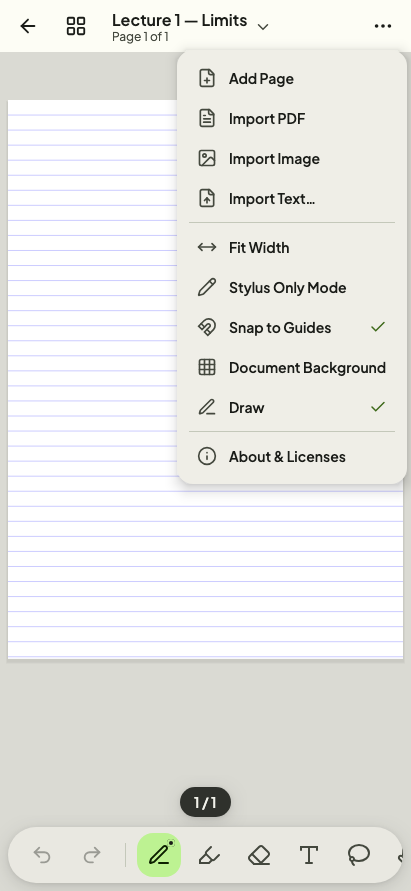
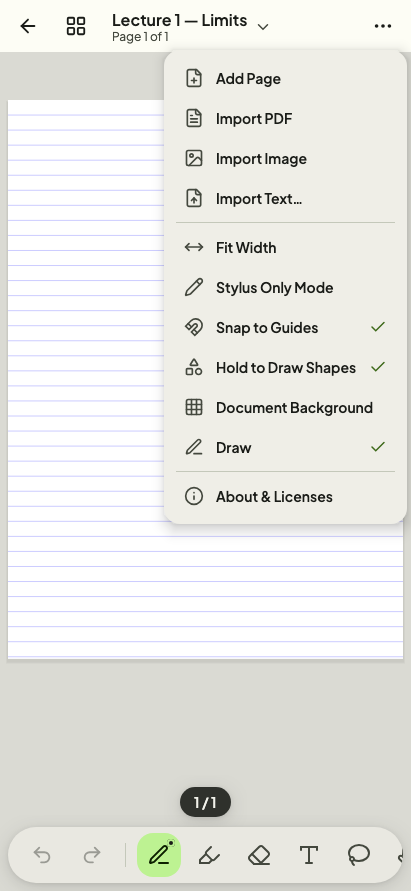
feat(ui): the switch of the shapes in the settings of the pen and the menus
"Hold to Draw Shapes" in the settings of the pen and of the highlighter
and as a command of the View menu, in the seven languages. The
screenshots of the tool popovers and of the more menu are recorded
again for it, and the ABI of drawview-ui for its two new strings.

Changed region(s): [[0.4088, 0.2727, 0.9927, 0.6061], [0.4088, 0.0606, 0.7883, 0.2424], [0.3796, 0.2121, 0.4088, 0.3333]]

diff --git a/drawview-ui/src/commonMain/kotlin/io/github/valerioisufi/drawview/ui/theme/DrawViewIcons.kt b/drawview-ui/src/commonMain/kotlin/io/github/valerioisufi/drawview/ui/theme/DrawViewIcons.kt
@@ -134,6 +134,7 @@ public object DrawViewIcons {
     public val Search: ImageVector by lazy { icon("Search", "M11 19C15.4183 19 19 15.4183 19 11C19 6.58172 15.4183 3 11 3C6.58172 3 3 6.58172 3 11C3 15.4183 6.58172 19 11 19Z", "M21 21.0002L16.7 16.7002") }
     internal val Send: ImageVector by lazy { icon("Send", "M14.536 21.686a.5.5 0 0 0 .937-.024l6.5-19a.496.496 0 0 0-.635-.635l-19 6.5a.5.5 0 0 0-.024.937l7.93 3.18a2 2 0 0 1 1.112 1.11z", "m21.854 2.147-10.94 10.939") }
     public val Settings: ImageVector by lazy { icon("Settings", "M12.22 2H11.78C11.2496 2 10.7409 2.21071 10.3658 2.58579C9.99072 2.96086 9.78 3.46957 9.78 4V4.18C9.77964 4.53073 9.68706 4.87519 9.51154 5.17884C9.33602 5.48248 9.08374 5.73464 8.78 5.91L8.35 6.16C8.04596 6.33554 7.70108 6.42795 7.35 6.42795C6.99893 6.42795 6.65404 6.33554 6.35 6.16L6.2 6.08C5.74107 5.81526 5.19584 5.74344 4.684 5.88031C4.17217 6.01717 3.73555 6.35154 3.47 6.81L3.25 7.19C2.98526 7.64893 2.91345 8.19416 3.05031 8.706C3.18717 9.21783 3.52154 9.65445 3.98 9.92L4.13 10.02C4.43228 10.1945 4.68362 10.4451 4.85905 10.7468C5.03448 11.0486 5.1279 11.391 5.13 11.74V12.25C5.1314 12.6024 5.03965 12.949 4.86405 13.2545C4.68844 13.5601 4.43521 13.8138 4.13 13.99L3.98 14.08C3.52154 14.3456 3.18717 14.7822 3.05031 15.294C2.91345 15.8058 2.98526 16.3511 3.25 16.81L3.47 17.19C3.73555 17.6485 4.17217 17.9828 4.684 18.1197C5.19584 18.2566 5.74107 18.1847 6.2 17.92L6.35 17.84C6.65404 17.6645 6.99893 17.5721 7.35 17.5721C7.70108 17.5721 8.04596 17.6645 8.35 17.84L8.78 18.09C9.08374 18.2654 9.33602 18.5175 9.51154 18.8212C9.68706 19.1248 9.77964 19.4693 9.78 19.82V20C9.78 20.5304 9.99072 21.0391 10.3658 21.4142C10.7409 21.7893 11.2496 22 11.78 22H12.22C12.7504 22 13.2591 21.7893 13.6342 21.4142C14.0093 21.0391 14.22 20.5304 14.22 20V19.82C14.2204 19.4693 14.3129 19.1248 14.4885 18.8212C14.664 18.5175 14.9163 18.2654 15.22 18.09L15.65 17.84C15.954 17.6645 16.2989 17.5721 16.65 17.5721C17.0011 17.5721 17.346 17.6645 17.65 17.84L17.8 17.92C18.2589 18.1847 18.8042 18.2566 19.316 18.1197C19.8278 17.9828 20.2645 17.6485 20.53 17.19L20.75 16.8C21.0147 16.3411 21.0866 15.7958 20.9497 15.284C20.8128 14.7722 20.4785 14.3356 20.02 14.07L19.87 13.99C19.5648 13.8138 19.3116 13.5601 19.136 13.2545C18.9604 12.949 18.8686 12.6024 18.87 12.25V11.75C18.8686 11.3976 18.9604 11.051 19.136 10.7455C19.3116 10.4399 19.5648 10.1862 19.87 10.01L20.02 9.92C20.4785 9.65445 20.8128 9.21783 20.9497 8.706C21.0866 8.19416 21.0147 7.64893 20.75 7.19L20.53 6.81C20.2645 6.35154 19.8278 6.01717 19.316 5.88031C18.8042 5.74344 18.2589 5.81526 17.8 6.08L17.65 6.16C17.346 6.33554 17.0011 6.42795 16.65 6.42795C16.2989 6.42795 15.954 6.33554 15.65 6.16L15.22 5.91C14.9163 5.73464 14.664 5.48248 14.4885 5.17884C14.3129 4.87519 14.2204 4.53073 14.22 4.18V4C14.22 3.46957 14.0093 2.96086 13.6342 2.58579C13.2591 2.21071 12.7504 2 12.22 2Z", "M12 15C13.6569 15 15 13.6569 15 12C15 10.3431 13.6569 9 12 9C10.3431 9 9 10.3431 9 12C9 13.6569 10.3431 15 12 15Z") }
+    internal val Shapes: ImageVector by lazy { icon("Shapes", "M8.3 10a.7.7 0 0 1-.626-1.079L11.4 3a.7.7 0 0 1 1.198-.043L16.3 8.9a.7.7 0 0 1-.572 1.1Z", "M4 14h5a1 1 0 0 1 1 1v5a1 1 0 0 1-1 1h-5a1 1 0 0 1-1-1v-5a1 1 0 0 1 1-1Z", "M14 17.5a3.5 3.5 0 1 0 7 0a3.5 3.5 0 1 0 -7 0") }
     public val Share: ImageVector by lazy { icon("Share", "M4 12V20C4 20.5304 4.21071 21.0391 4.58579 21.4142C4.96086 21.7893 5.46957 22 6 22H18C18.5304 22 19.0391 21.7893 19.4142 21.4142C19.7893 21.0391 20 20.5304 20 20V12", "M16 6L12 2L8 6", "M12 2V15") }
     public val Shield: ImageVector by lazy { icon("Shield", "M20 13.0004C20 18.0004 16.5 20.5005 12.34 21.9505C12.1222 22.0243 11.8855 22.0207 11.67 21.9405C7.5 20.5005 4 18.0004 4 13.0004V6.00045C4 5.73523 4.10536 5.48088 4.29289 5.29334C4.48043 5.10581 4.73478 5.00045 5 5.00045C7 5.00045 9.5 3.80045 11.24 2.28045C11.4519 2.09945 11.7214 2 12 2C12.2786 2 12.5481 2.09945 12.76 2.28045C14.51 3.81045 17 5.00045 19 5.00045C19.2652 5.00045 19.5196 5.10581 19.7071 5.29334C19.8946 5.48088 20 5.73523 20 6.00045V13.0004Z", "M9 12L11 14L15 10") }
     internal val Sigma: ImageVector by lazy { icon("Sigma", "M18 7V5C18 4.73478 17.8946 4.48043 17.7071 4.29289C17.5196 4.10536 17.2652 4 17 4H6.5C6.40714 4 6.31612 4.02586 6.23713 4.07467C6.15815 4.12349 6.09431 4.19334 6.05279 4.27639C6.01126 4.35945 5.99368 4.45242 6.00202 4.5449C6.01036 4.63738 6.04429 4.72572 6.1 4.8L10.6 10.8C10.8596 11.1462 11 11.5673 11 12C11 12.4327 10.8596 12.8538 10.6 13.2L6.1 19.2C6.04429 19.2743 6.01036 19.3626 6.00202 19.4551C5.99368 19.5476 6.01126 19.6406 6.05279 19.7236C6.09431 19.8067 6.15815 19.8765 6.23713 19.9253C6.31612 19.9741 6.40714 20 6.5 20H17C17.2652 20 17.5196 19.8946 17.7071 19.7071C17.8946 19.5196 18 19.2652 18 19V17") }

diff --git a/drawview-ui/src/commonMain/kotlin/io/github/valerioisufi/drawview/ui/components/ToolSettings.kt b/drawview-ui/src/commonMain/kotlin/io/github/valerioisufi/drawview/ui/components/ToolSettings.kt
@@ -14,14 +14,17 @@ import androidx.compose.foundation.layout.fillMaxWidth
 import androidx.compose.foundation.layout.height
 import androidx.compose.foundation.layout.padding
 import androidx.compose.foundation.layout.size
+import androidx.compose.foundation.layout.Spacer
 import androidx.compose.foundation.layout.width
 import androidx.compose.foundation.shape.CircleShape
 import androidx.compose.foundation.shape.RoundedCornerShape
+import androidx.compose.foundation.selection.toggleable
 import androidx.compose.material3.ExperimentalMaterial3Api
 import androidx.compose.material3.Icon
 import androidx.compose.material3.MaterialTheme
 import androidx.compose.material3.Slider
 import androidx.compose.material3.Surface
+import androidx.compose.material3.Switch
 import androidx.compose.material3.Text
 import androidx.compose.runtime.Composable
 import androidx.compose.ui.Alignment
@@ -275,6 +278,29 @@ internal fun OptionCard(icon: ImageVector, title: String, description: String, s
             Text(description, style = MaterialTheme.typography.bodySmall, color = if (selected) content else colors.onSurfaceVariant)
         }
         if (selected) Icon(DrawViewIcons.Check, contentDescription = null, tint = content, modifier = Modifier.size(18.dp))
+    }
+}
+
+/**
+ * A setting of a tool that is on or off: its [title] and what it does ([description]), a switch;
+ * the whole row toggles it.
+ */
+@Composable
+internal fun SwitchSetting(title: String, description: String, checked: Boolean, onCheckedChange: (Boolean) -> Unit, modifier: Modifier = Modifier) {
+    Row(
+        modifier = modifier
+            .fillMaxWidth()
+            .clip(RoundedCornerShape(12.dp))
+            .toggleable(value = checked, role = Role.Switch, onValueChange = onCheckedChange)
+            .padding(vertical = 4.dp),
+        verticalAlignment = Alignment.CenterVertically
+    ) {
+        Column(modifier = Modifier.weight(1f)) {
+            Text(title, style = MaterialTheme.typography.labelLarge, color = MaterialTheme.colorScheme.onSurface)
+            Text(description, style = MaterialTheme.typography.bodySmall, color = MaterialTheme.colorScheme.onSurfaceVariant)
+        }
+        Spacer(Modifier.width(12.dp))
+        Switch(checked = checked, onCheckedChange = null)
     }
 }
 

diff --git a/drawview-ui/src/commonMain/kotlin/io/github/valerioisufi/drawview/ui/screen/EditorCommands.kt b/drawview-ui/src/commonMain/kotlin/io/github/valerioisufi/drawview/ui/screen/EditorCommands.kt
@@ -44,6 +44,7 @@ import io.github.valerioisufi.drawview.ui.generated.resources.command_previous_p
 import io.github.valerioisufi.drawview.ui.generated.resources.command_previous_tool
 import io.github.valerioisufi.drawview.ui.generated.resources.command_send_backward
 import io.github.valerioisufi.drawview.ui.generated.resources.command_send_to_back
+import io.github.valerioisufi.drawview.ui.generated.resources.command_shapes
 import io.github.valerioisufi.drawview.ui.generated.resources.command_snapping
 import io.github.valerioisufi.drawview.ui.generated.resources.command_zoom_in
 import io.github.valerioisufi.drawview.ui.generated.resources.command_zoom_out
@@ -314,6 +315,13 @@ internal class EditorCommands internal constructor(
         isChecked = { controller.snapManager.isEnabled }
     ) { controller.snapManager.updateEnabled(!controller.snapManager.isEnabled) }
 
+    /** Whether a stroke held still at its end becomes its shape (a line, a circle, a box...). */
+    val shapes = Command(
+        "shapes", label(Res.string.command_shapes), CommandGroup.VIEW, section = 2,
+        icon = { rememberVectorPainter(DrawViewIcons.Shapes) },
+        isChecked = { controller.shapeSnapper.isEnabled }
+    ) { controller.shapeSnapper.updateEnabled(!controller.shapeSnapper.isEnabled) }
+
     // ----- Insert -----
 
     val addPage = Command(
@@ -547,7 +555,7 @@ internal class EditorCommands internal constructor(
     val all: List<Command> = listOf(
         close,
         undo, redo, cut, copy, paste, delete,
-        zoomIn, zoomOut, fitWidth, previousPage, nextPage, pageGrid, stylusOnly, snapping,
+        zoomIn, zoomOut, fitWidth, previousPage, nextPage, pageGrid, stylusOnly, snapping, shapes,
         addPage, importPdf, importImage, importText,
         documentBackground,
         bringToFront, bringForward, sendBackward, sendToBack,

diff --git a/drawview-ui/src/commonMain/kotlin/io/github/valerioisufi/drawview/ui/screen/EditorToolbar.kt b/drawview-ui/src/commonMain/kotlin/io/github/valerioisufi/drawview/ui/screen/EditorToolbar.kt
@@ -85,6 +85,7 @@ import io.github.valerioisufi.drawview.ui.components.OptionCard
 import io.github.valerioisufi.drawview.ui.components.PopoverTitle
 import io.github.valerioisufi.drawview.ui.components.PresetCard
 import io.github.valerioisufi.drawview.ui.components.SettingHint
+import io.github.valerioisufi.drawview.ui.components.SwitchSetting
 import io.github.valerioisufi.drawview.ui.components.SettingLabel
 import io.github.valerioisufi.drawview.ui.components.SizeSetting
 import io.github.valerioisufi.drawview.ui.components.StrokePreview
@@ -450,7 +451,7 @@ private fun MoreMenu(commands: EditorCommands, arrangement: ToolbarArrangement, 
             sections = listOf(
                 listOfNotNull(commands.pageGrid.takeIf { !showPageGrid }, commands.addPage) +
                     (if (floating) listOf(commands.importPdf, commands.importImage, commands.importText) else emptyList()),
-                listOf(commands.fitWidth, commands.stylusOnly, commands.snapping, commands.documentBackground, commands.drawingMode),
+                listOf(commands.fitWidth, commands.stylusOnly, commands.snapping, commands.shapes, commands.documentBackground, commands.drawingMode),
                 listOf(commands.about)
             ),
             expanded = expanded,
@@ -642,6 +643,12 @@ internal fun ColumnScope.InkSettings(controller: DrawViewController, tool: Tool,
                 onCustom = { wheelOpen = true }
             )
         }
+        SwitchSetting(
+            title = stringResource(Res.string.command_shapes),
+            description = stringResource(Res.string.tool_settings_shapes_hint),
+            checked = controller.shapeSnapper.isEnabled,
+            onCheckedChange = controller.shapeSnapper::updateEnabled
+        )
     }
     if (wheelOpen) {
         TextColorPickerDialog(

diff --git a/docs/shapes.md b/docs/shapes.md
@@ -142,7 +142,7 @@ noise, and strokes recorded by hand in the tests' resources).
 |---|---|---|
 | 1 | `Shape` and `ShapeRecognizer` in `drawview-model` (`model/shape/`): line, arrow, broken line, ellipse, circle, triangle, rectangle, square, polygon, the regularization, the points of each shape; tests on synthetic strokes with noise and on strokes that are no shape (handwriting, spirals, scribbles) that must give nothing; a test that the Ink mesh of a rectangle and a triangle keeps its corners; ABI of `drawview-model` recorded on purpose | Done |
 | 2 | The hold at the end of a stroke in `CanvasGestureHandler` and `ShapeSnapper` in `drawview-canvas`: the live mesh replaced by the shape, committed on the up, undone in one step; `DrawPreferences.isShapeRecognitionEnabled` (default on) with a test reading the preferences written before it; tests of the gesture (held: a shape; lifted: the stroke; held on a scribble: the stroke) | Done |
-| 3 | The switch in the settings of the pen and of the highlighter (`drawview-ui`), its screenshots (`verifyRoborazziJvm`); the desktop application on a scratch directory, the shapes drawn with the mouse and checked after a restart and in the PDF export | Proposed |
+| 3 | The switch in the settings of the pen and of the highlighter (`drawview-ui`), its screenshots (`verifyRoborazziJvm`); the desktop application on a scratch directory, the shapes drawn with the mouse and checked after a restart and in the PDF export | Done, the drawing by hand left to the user |
 
 ### Phase 1 results
 
@@ -185,6 +185,23 @@ noise, and strokes recorded by hand in the tests' resources).
   becomes a level line, undone in one step; lifted at once, held on a scribble, or with the shapes
   switched off, the stroke drawn), `EditorPreferencesTest` (the preference told and taken back, on
   in the preferences written before it). ABI of `drawview-canvas` recorded again on purpose.
+
+### Phase 3 results
+
+* `SwitchSetting` (`drawview-ui`, `ToolSettings.kt`): a setting on or off, its title, what it does
+  and a switch, the whole row toggling it. "Hold to Draw Shapes" is the last setting of the pen and
+  of the highlighter (`InkSettings`), with its hint.
+* The command `shapes` (`EditorCommands`, menu View and the "more" menu of the editor, by
+  "Snap to Guides"), with the Lucide icon Shapes, so that the menu bar of the desktop has it too.
+* The strings in the seven languages of the interface (`command_shapes`,
+  `tool_settings_shapes_hint`).
+* Screenshots recorded again on purpose: `tool-popovers` (ui, light and dark) and
+  `editor-more-menu-phone-light` (explorer); the others of ui, explorer, sync-ui, lecture-ui and
+  export-ui unchanged. The consumer checks pass.
+* The desktop application starts on a scratch directory with the branch. The shapes were not drawn
+  in it by hand from the session (no control of the mouse there): drawing them, reopening the
+  document and exporting it to PDF is left to the user. The stored strokes and the export are the
+  ones of any stroke (requirement 4).
 
 ## Decisions
 
